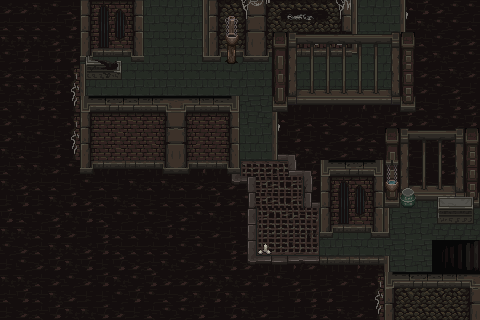
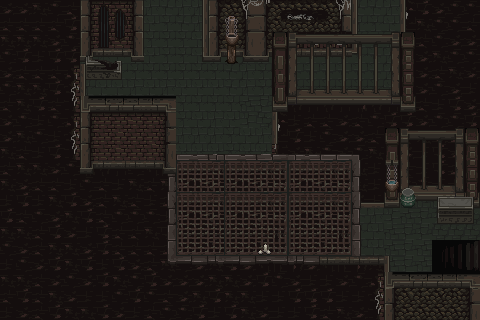
Inimigo a perseguir e a colidir(esboço)

Changed region(s): [[0.3438, 0.2812, 0.8125, 0.8438], [0.625, 0.8125, 0.6562, 0.8438], [0.5625, 0.8125, 0.5938, 0.8438]]

diff --git a/MapCollisions.js b/MapCollisions.js
@@ -21,23 +21,23 @@ const levels = [
         10, 0, 0, 0, 0, 0, 0, 0, 0, 0, 0, 0, 0, 0, 0, 0, 0, 0, 0, 0, 0, 0, 0, 0, 0, 0, 0, 0, 0, 10,
         10, 10, 0, 0, 0, 0, 0, 0, 0, 0, 0, 0, 0, 0, 0, 0, 0, 0, 0, 0, 0, 0, 0, 0, 0, 0, 0, 0, 0, 10,
         10, 10, 10, 10, 10, 10, 10, 10, 10, 10, 10, 10, 10, 10, 10, 10, 10, 10, 10, 10, 10, 10, 10, 10, 10, 10, 10, 10, 10, 10],
-    [0, 0, 0, 0, 0, 0, 0, 0, 10, 4, 4, 4, 4, 4, 0, 0, 0, 0, 0, 0, 0, 0, 10, 5, 5, 10, 0, 0, 0, 0,
+    [0, 0, 0, 0, 0, 0, 0, 0, 10, 4, 4, 4, 4, 10, 0, 0, 0, 0, 0, 0, 0, 0, 10, 5, 5, 10, 0, 0, 0, 0,
         0, 0, 0, 0, 0, 0, 0, 0, 10, 0, 0, 0, 0, 10, 0, 0, 0, 0, 0, 0, 0, 0, 10, 0, 0, 10, 0, 0, 0, 0,
-        0, 0, 0, 0, 0, 0, 0, 0, 10, 0, 0, 0, 0, 10, 0, 0, 0, 0, 0, 0, 0, 0, 10, 0, 0, 10, 0, 0, 0, 0,
-        0, 0, 0, 0, 0, 10, 10, 10, 10, 0, 0, 0, 0, 10, 10, 10, 10, 10, 10, 10, 10, 10, 10, 0, 0, 10, 0, 0, 0, 0,
+        0, 0, 0, 0, 0, 0, 0, 0, 10, 0, 0, 0, 0, 10, 10, 10, 10, 10, 10, 10, 10, 10, 10, 0, 0, 10, 0, 0, 0, 0,
+        0, 0, 0, 0, 0, 10, 10, 10, 10, 0, 0, 0, 0, 0, 0, 0, 0, 0, 0, 0, 0, 0, 0, 0, 0, 10, 0, 0, 0, 0,
         0, 0, 0, 0, 0, 10, 10, 10, 0, 0, 0, 0, 0, 0, 0, 0, 0, 0, 0, 0, 0, 0, 0, 0, 0, 10, 0, 0, 0, 0,
         0, 0, 0, 0, 0, 10, 0, 0, 0, 0, 0, 0, 0, 0, 0, 0, 0, 0, 0, 0, 0, 0, 0, 0, 0, 10, 0, 0, 0, 0,
         0, 0, 0, 0, 0, 10, 0, 0, 0, 0, 0, 0, 0, 0, 0, 0, 0, 10, 10, 10, 10, 10, 10, 10, 10, 10, 0, 0, 0, 0,
         0, 0, 0, 0, 0, 10, 0, 0, 0, 0, 0, 0, 0, 0, 0, 0, 0, 10, 0, 0, 0, 0, 0, 0, 0, 0, 0, 0, 0, 0,
         0, 0, 0, 0, 0, 10, 0, 0, 0, 0, 0, 0, 0, 0, 0, 0, 0, 10, 0, 0, 0, 0, 0, 0, 0, 0, 0, 0, 0, 0,
-        0, 0, 0, 0, 0, 10, 0, 0, 0, 0, 0, 0, 0, 0, 0, 0, 0, 10, 10, 0, 0, 0, 0, 0, 0, 0, 0, 0, 0, 0,
-        0, 0, 0, 0, 0, 10, 10, 10, 10, 10, 10, 10, 10, 10, 10, 0, 0, 0, 10, 10, 0, 0, 0, 0, 0, 0, 0, 0, 0, 0,
-        0, 0, 0, 0, 0, 0, 0, 0, 0, 0, 0, 0, 0, 0, 10, 10, 0, 0, 0, 10, 0, 0, 0, 0, 0, 0, 0, 0, 0, 0,
-        0, 0, 0, 0, 0, 0, 0, 0, 0, 0, 0, 0, 0, 0, 0, 10, 0, 0, 0, 10, 0, 0, 0, 0, 10, 10, 10, 10, 10, 10,
-        0, 0, 0, 0, 0, 0, 0, 0, 0, 0, 0, 0, 0, 0, 0, 10, 0, 0, 0, 0, 0, 0, 0, 0, 10, 0, 0, 10, 10, 10,
-        0, 0, 0, 0, 0, 0, 0, 0, 0, 0, 0, 0, 0, 0, 0, 10, 0, 0, 0, 0, 10, 10, 10, 10, 10, 0, 0, 0, 0, 0,
-        0, 0, 0, 0, 0, 0, 0, 0, 0, 0, 0, 0, 0, 0, 0, 10, 0, 0, 0, 0, 0, 0, 0, 0, 0, 0, 0, 1, 1, 1,
-        0, 0, 0, 0, 0, 0, 0, 0, 0, 0, 0, 0, 0, 0, 0, 10, 10, 10, 10, 10, 10, 10, 10, 10, 0, 0, 0, 1, 1, 1,
+        0, 0, 0, 0, 0, 10, 0, 0, 0, 0, 0, 0, 0, 0, 0, 0, 0, 10, 10, 10, 10, 10, 10, 0, 0, 0, 0, 0, 0, 0,
+        0, 0, 0, 0, 0, 10, 10, 10, 10, 10, 10, 0, 0, 0, 0, 0, 0, 0, 0, 0, 0, 0, 10, 0, 0, 0, 0, 0, 0, 0,
+        0, 0, 0, 0, 0, 0, 0, 0, 0, 0, 10, 0, 0, 0, 0, 0, 0, 0, 0, 0, 0, 0, 10, 0, 0, 10, 10, 0, 0, 0,
+        0, 0, 0, 0, 0, 0, 0, 0, 0, 0, 10, 0, 0, 0, 0, 0, 0, 0, 0, 0, 0, 0, 10, 10, 10, 10, 0, 10, 10, 10,
+        0, 0, 0, 0, 0, 0, 0, 0, 0, 0, 10, 0, 0, 0, 0, 0, 0, 0, 0, 0, 0, 0, 0, 0, 0, 0, 0, 0, 0, 0,
+        0, 0, 0, 0, 0, 0, 0, 0, 0, 0, 10, 0, 0, 0, 0, 0, 0, 0, 0, 0, 0, 0, 0, 0, 0, 0, 0, 0, 0, 0,
+        0, 0, 0, 0, 0, 0, 0, 0, 0, 0, 10, 0, 0, 0, 0, 0, 0, 0, 0, 0, 0, 0, 0, 0, 0, 0, 0, 1, 1, 1,
+        0, 0, 0, 0, 0, 0, 0, 0, 0, 0, 10, 10, 10, 10, 10, 10, 10, 10, 10, 10, 10, 10, 10, 10, 0, 0, 0, 1, 1, 1,
         0, 0, 0, 0, 0, 0, 0, 0, 0, 0, 0, 0, 0, 0, 0, 0, 0, 0, 0, 0, 0, 0, 0, 10, 0, 0, 0, 0, 0, 0,
         0, 0, 0, 0, 0, 0, 0, 0, 0, 0, 0, 0, 0, 0, 0, 0, 0, 0, 0, 0, 0, 0, 0, 10, 0, 0, 0, 0, 0, 0,
         0, 0, 0, 0, 0, 0, 0, 0, 0, 0, 0, 0, 0, 0, 0, 0, 0, 0, 0, 0, 0, 0, 0, 10, 10, 10, 10, 10, 10, 10],
@@ -63,20 +63,20 @@ const levels = [
         10, 10, 10, 10, 10, 10, 10, 10, 10, 10, 10, 10, 10, 1, 1, 1, 1, 10, 10, 10, 10, 10, 10, 10, 10, 10, 10, 10, 10, 10],
     [0, 0, 0, 0, 0, 0, 0, 0, 0, 0, 0, 0, 0, 0, 0, 0, 0, 10, 7, 7, 7, 7, 10, 0, 0, 0, 0, 0, 0, 0,
         0, 0, 0, 0, 0, 0, 0, 0, 0, 0, 0, 0, 0, 0, 0, 0, 0, 10, 0, 0, 0, 0, 10, 0, 0, 0, 0, 0, 0, 0,
-        0, 0, 0, 0, 0, 0, 0, 0, 0, 0, 0, 0, 0, 0, 0, 0, 0, 10, 0, 0, 0, 0, 10, 0, 0, 0, 0, 0, 0, 0,
         10, 10, 10, 10, 10, 10, 10, 10, 10, 10, 10, 10, 10, 10, 10, 10, 10, 10, 0, 0, 0, 0, 10, 0, 0, 0, 0, 0, 0, 0,
+        10, 0, 0, 0, 0, 0, 0, 0, 0, 0, 0, 0, 0, 0, 0, 0, 0, 10, 0, 0, 0, 0, 10, 0, 0, 0, 0, 0, 0, 0,
         10, 0, 0, 10, 10, 0, 0, 0, 0, 0, 0, 0, 0, 0, 0, 0, 0, 0, 0, 0, 0, 0, 10, 0, 0, 0, 0, 0, 0, 0,
         10, 0, 0, 10, 10, 0, 0, 0, 0, 0, 0, 0, 0, 0, 0, 0, 0, 0, 0, 0, 0, 0, 10, 0, 0, 0, 0, 0, 0, 0,
         10, 0, 0, 0, 0, 0, 0, 0, 0, 0, 0, 0, 0, 0, 0, 0, 0, 0, 0, 0, 0, 0, 10, 0, 0, 0, 0, 0, 0, 0,
         10, 0, 0, 0, 0, 0, 0, 0, 0, 0, 0, 0, 0, 0, 0, 0, 0, 0, 0, 0, 0, 0, 10, 0, 0, 0, 0, 0, 0, 0,
-        10, 0, 0, 0, 0, 0, 0, 0, 0, 0, 0, 0, 0, 0, 0, 0, 0, 0, 0, 0, 0, 0, 10, 0, 0, 0, 0, 0, 0, 0,
-        10, 0, 0, 0, 0, 0, 0, 0, 0, 0, 0, 0, 0, 0, 0, 0, 0, 0, 0, 0, 0, 0, 10, 10, 10, 10, 10, 10, 10, 10,
+        10, 0, 0, 0, 0, 0, 0, 0, 0, 0, 0, 0, 0, 0, 0, 0, 0, 0, 0, 0, 0, 0, 10, 10, 10, 10, 10, 10, 10, 0,
+        10, 0, 0, 0, 0, 0, 0, 0, 0, 0, 0, 0, 0, 0, 0, 0, 0, 0, 0, 0, 0, 0, 0, 0, 0, 0, 0, 0, 0, 10,
         10, 0, 0, 10, 10, 0, 0, 0, 0, 0, 0, 0, 0, 0, 0, 0, 0, 0, 0, 0, 0, 0, 0, 0, 0, 0, 0, 0, 0, 10,
         10, 10, 10, 10, 10, 10, 10, 10, 10, 10, 10, 10, 0, 0, 0, 0, 0, 0, 0, 0, 0, 0, 0, 0, 0, 0, 0, 0, 0, 10,
         0, 0, 0, 0, 0, 0, 0, 0, 0, 0, 0, 10, 0, 0, 0, 0, 0, 0, 0, 0, 0, 0, 10, 10, 10, 10, 10, 0, 0, 10,
         0, 0, 0, 0, 0, 0, 0, 0, 0, 0, 0, 10, 0, 0, 0, 0, 0, 0, 0, 0, 0, 10, 10, 0, 0, 0, 10, 0, 0, 10,
-        0, 0, 0, 0, 0, 0, 0, 0, 0, 0, 0, 10, 0, 0, 0, 0, 0, 0, 0, 0, 0, 0, 10, 0, 0, 0, 10, 0, 0, 10,
-        0, 0, 0, 0, 0, 0, 0, 0, 0, 0, 0, 10, 0, 0, 0, 0, 0, 0, 0, 0, 0, 10, 0, 0, 10, 10, 10, 0, 0, 10,
+        0, 0, 0, 0, 0, 0, 0, 0, 0, 0, 0, 10, 0, 0, 0, 0, 0, 0, 0, 0, 0, 0, 10, 0, 0, 10, 10, 0, 0, 10,
+        0, 0, 0, 0, 0, 0, 0, 0, 0, 0, 0, 10, 0, 0, 0, 0, 0, 0, 0, 0, 0, 10, 0, 0, 10, 0, 0, 0, 0, 10,
         0, 0, 0, 0, 0, 0, 0, 0, 0, 0, 0, 10, 0, 0, 0, 0, 0, 0, 10, 10, 10, 0, 0, 0, 10, 0, 0, 0, 0, 0,
         0, 0, 0, 0, 0, 0, 0, 0, 0, 0, 0, 10, 0, 0, 0, 0, 0, 0, 10, 0, 0, 0, 0, 0, 10, 0, 0, 0, 0, 0,
         0, 0, 0, 0, 0, 0, 0, 0, 0, 0, 0, 10, 0, 0, 0, 0, 0, 0, 10, 0, 0, 0, 0, 0, 10, 0, 0, 0, 0, 0,
@@ -88,13 +88,13 @@ const levels = [
         0, 0, 0, 0, 0, 10, 10, 0, 0, 0, 10, 10, 10, 0, 0, 0, 0, 0, 10, 0, 0, 0, 0, 0, 0, 0, 0, 0, 0, 0,
         0, 10, 10, 10, 10, 0, 0, 10, 10, 10, 0, 0, 10, 0, 0, 0, 0, 0, 10, 0, 0, 0, 0, 0, 0, 0, 0, 0, 0, 0,
         0, 10, 0, 0, 0, 0, 0, 0, 0, 0, 0, 0, 0, 0, 0, 0, 0, 0, 10, 0, 0, 0, 0, 0, 0, 0, 0, 0, 0, 0,
-        0, 10, 0, 0, 0, 0, 0, 0, 0, 0, 0, 0, 10, 0, 0, 0, 0, 0, 10, 0, 0, 0, 0, 0, 0, 0, 0, 0, 0, 0,
-        30, 0, 0, 0, 0, 0, 0, 0, 0, 0, 0, 0, 0, 0, 0, 0, 0, 0, 10, 10, 10, 10, 10, 10, 10, 10, 10, 10, 10, 10,
-        30, 0, 0, 0, 0, 0, 0, 0, 0, 0, 0, 0, 0, 0, 0, 0, 0, 0, 0, 0, 0, 0, 0, 0, 0, 0, 0, 0, 0, 30,
-        30, 0, 0, 0, 0, 0, 0, 0, 0, 0, 0, 0, 0, 0, 0, 0, 0, 0, 0, 0, 0, 0, 0, 0, 0, 0, 0, 0, 0, 30,
+        0, 10, 0, 0, 0, 0, 0, 0, 0, 0, 0, 0, 10, 0, 0, 0, 0, 0, 10, 10, 10, 10, 10, 10, 10, 10, 10, 10, 10, 10,
+        2817, 0, 0, 0, 0, 0, 0, 0, 0, 0, 0, 0, 0, 0, 0, 0, 0, 0, 0, 0, 0, 0, 0, 0, 0, 0, 0, 0, 0, 10,
+        2817, 0, 0, 0, 0, 0, 0, 0, 0, 0, 0, 0, 0, 0, 0, 0, 0, 0, 0, 0, 0, 0, 0, 0, 0, 0, 0, 0, 0, 2817,
+        2817, 0, 0, 0, 0, 0, 0, 0, 0, 0, 0, 0, 0, 0, 0, 0, 0, 0, 0, 0, 0, 0, 0, 0, 0, 0, 0, 0, 0, 2817,
         10, 0, 0, 0, 0, 0, 0, 0, 0, 0, 0, 0, 0, 0, 0, 0, 0, 10, 0, 0, 0, 0, 0, 0, 0, 0, 0, 0, 0, 10,
         10, 0, 0, 0, 0, 0, 0, 0, 0, 0, 0, 0, 0, 10, 0, 0, 0, 0, 0, 0, 0, 0, 0, 0, 0, 0, 0, 0, 0, 10,
-        10, 0, 0, 0, 10, 10, 10, 10, 10, 10, 10, 0, 0, 0, 0, 0, 0, 10, 0, 0, 0, 0, 10, 10, 10, 0, 0, 0, 0, 10,
+        10, 0, 0, 0, 0, 0, 0, 0, 0, 0, 0, 0, 0, 0, 0, 0, 0, 10, 0, 0, 0, 0, 0, 0, 0, 0, 0, 0, 0, 10,
         10, 0, 0, 0, 10, 10, 10, 10, 10, 10, 10, 0, 0, 0, 0, 0, 0, 0, 0, 0, 0, 10, 10, 10, 10, 0, 10, 0, 0, 10,
         10, 0, 0, 10, 0, 0, 0, 0, 0, 0, 0, 0, 0, 0, 0, 0, 0, 0, 0, 0, 0, 0, 0, 0, 0, 0, 10, 0, 0, 10,
         10, 0, 0, 0, 0, 0, 0, 0, 0, 0, 0, 0, 0, 0, 0, 0, 0, 0, 0, 0, 0, 0, 0, 0, 0, 0, 0, 0, 0, 10,

diff --git a/GameLoop.js b/GameLoop.js
@@ -3,8 +3,8 @@ const foreground = new Level(0,0,canvas.width,canvas.height);
 const player = new Player(220,canvas.height/1.5,150,150);
 const playerattack = new playerStance(player.x,player.y,player.width,player.height);
 const npc = new Npc((canvas.width/2)-50,(canvas.height/2)-40,200,200);
-const inventory = new Inventory(canvas.width-900, 100, 1000,700);
-let enemy;
+const inventory = new Inventory(976896/1536, 0, 1536000/1536,511700/731);
+let enemy = new Enemy(canvas.width/2,(canvas.height/2)-tiles.height*3,64,64,10);
 
 map.load("Assets/room1.png","Assets/room2.png","Assets/room3.png","Assets/room4.png","Assets/room5.png","Assets/room6.png");
 foreground.load("Assets/room1foreground.png","Assets/room2foreground.png","Assets/room3foreground.png","Assets/room4foreground.png","Assets/room5foreground.png","Assets/room6foreground.png")
@@ -15,8 +15,9 @@ player.load(30,6,player.images,"Assets/Homer/idle/idle_down.png", "Assets/Homer/
 
 playerattack.load(15,5,playerattack.images,"Assets/Homer/attack/atack_down.png","Assets/Homer/attack/atack_left.png",
     "Assets/Homer/attack/atack_right.png","Assets/Homer/attack/atack_up.png");
-
 npc.load(18,6,npc.images,"Assets/NPC/Golem/idle_down.png");
+
+enemy.load("Assets/Donut.png")
 
 inventory.load("Assets/Inventory/inventory.png");
 
@@ -33,6 +34,7 @@ function animate(){
     map.draw(player.level);
     generateCharacters();
     playerStateSetter(attackTimeOut);
+     enemy.chase(Math.atan2(player.y+player.height/2-enemy.y,player.x + player.width/2 - enemy.x))
     foreground.draw(player.level)
     inventory.drawInventory();
     /*

diff --git a/GameObjects.js b/GameObjects.js
@@ -232,9 +232,47 @@ class Npc extends AnimatedSprite{
 }
 
 class Enemy extends Sprite{
-    constructor(x,y,width,height) {
+    constructor(x,y,width,height,damage) {
         super(x,y,width,height);
+
+        this.damage = damage;
+        this.attacks=[]
+        this.attackTimeout=false;
     }
+    draw() {
+        super.draw();
+        ctx.fillRect(this.x,this.y,this.width,this.height)
+    }
+
+    chase(angle){
+        this.draw()
+        if (collision(player.x,player.y,player.width,player.height,this.x,this.y,this.width,this.height)){
+
+            this.attack()
+        }
+        else
+        {
+            if (!structuresCollision(this.x + Math.cos(angle) * 2,this.y ,this.width,this.height)){
+                this.x += Math.cos(angle) * 2
+
+            }
+            if (!structuresCollision(this.x ,this.y + Math.sin(angle) * 2,this.width,this.height)){
+                this.y+=Math.sin(angle)
+            }
+        }
+    }
+    attack(){
+    if (!this.attackTimeout){
+        this.attacks.push(new Attack(this.x,this.y,this.width,this.height))
+        this.attackTimeout=true
+    }
+        setTimeout(() => {
+            this.attackTimeout=false
+        }, 5000)
+
+    }
+
+
 }
 
 

diff --git a/GameRules.js b/GameRules.js
@@ -87,6 +87,17 @@ function generateCollision() {
 
 //Função que testa as colisões entre o jogador ou qualquer outro objeto que se mande o X,Y,WIDTH e Height com a posição do tile
 //que se quer, esta função tem o propósito de eliminar repetição de código.
+function collision(X,Y,Width,Height,SecondX,SecondY,SecondWidth,SecondHeight){
+
+    if(X < SecondX + SecondWidth-20 &&
+        X + Width > SecondX &&
+        Y < SecondY + SecondHeight-12 &&
+        Y + Height > SecondY){
+
+        return true;
+    }
+}
+
 function TileToPlayerCollsion(X,Y,Width,Height,tileX,tileY){
     if(X < tileX + tiles.width-20 &&
         X + Width > tileX &&
@@ -189,7 +200,7 @@ function structuresCollision(X,Y,Width,Height){
 
 
 
-                if(levelNow[i][f] == 199) {
+                if(levelNow[i][f] == 10) {
 
                     if(TileToPlayerCollsion(X,Y,Width,Height,tileX,tileY)){
                         return true;
